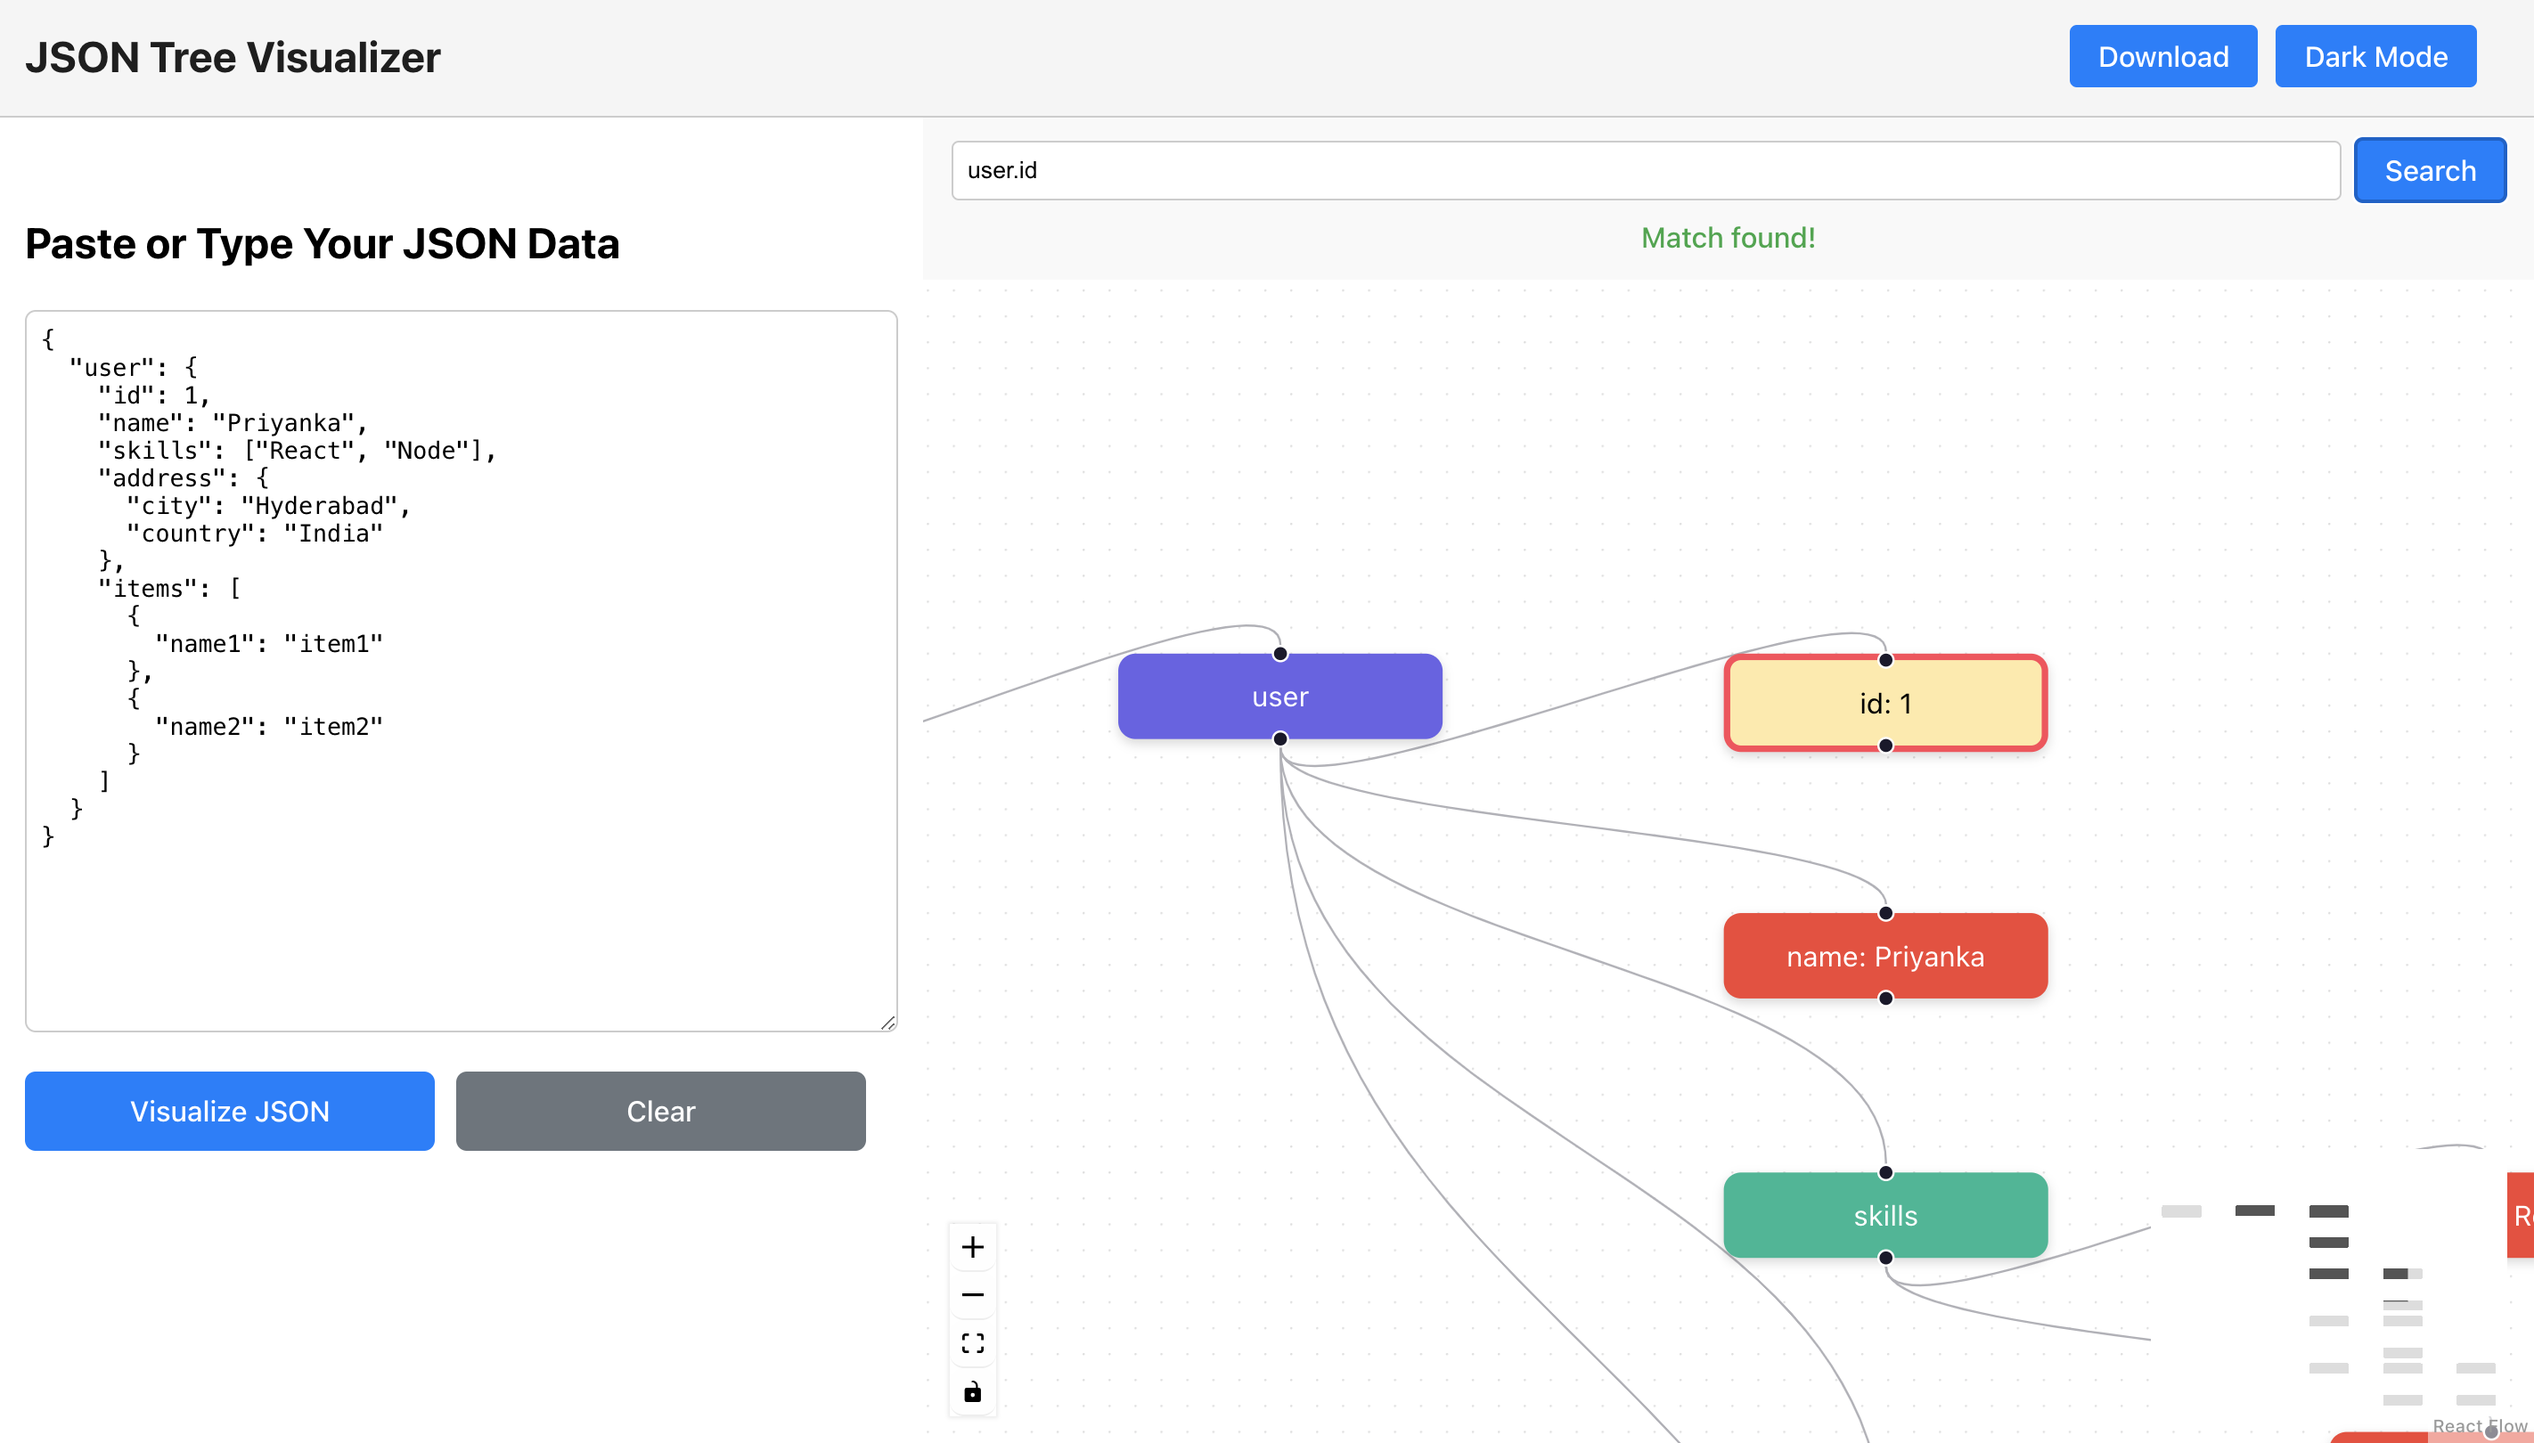
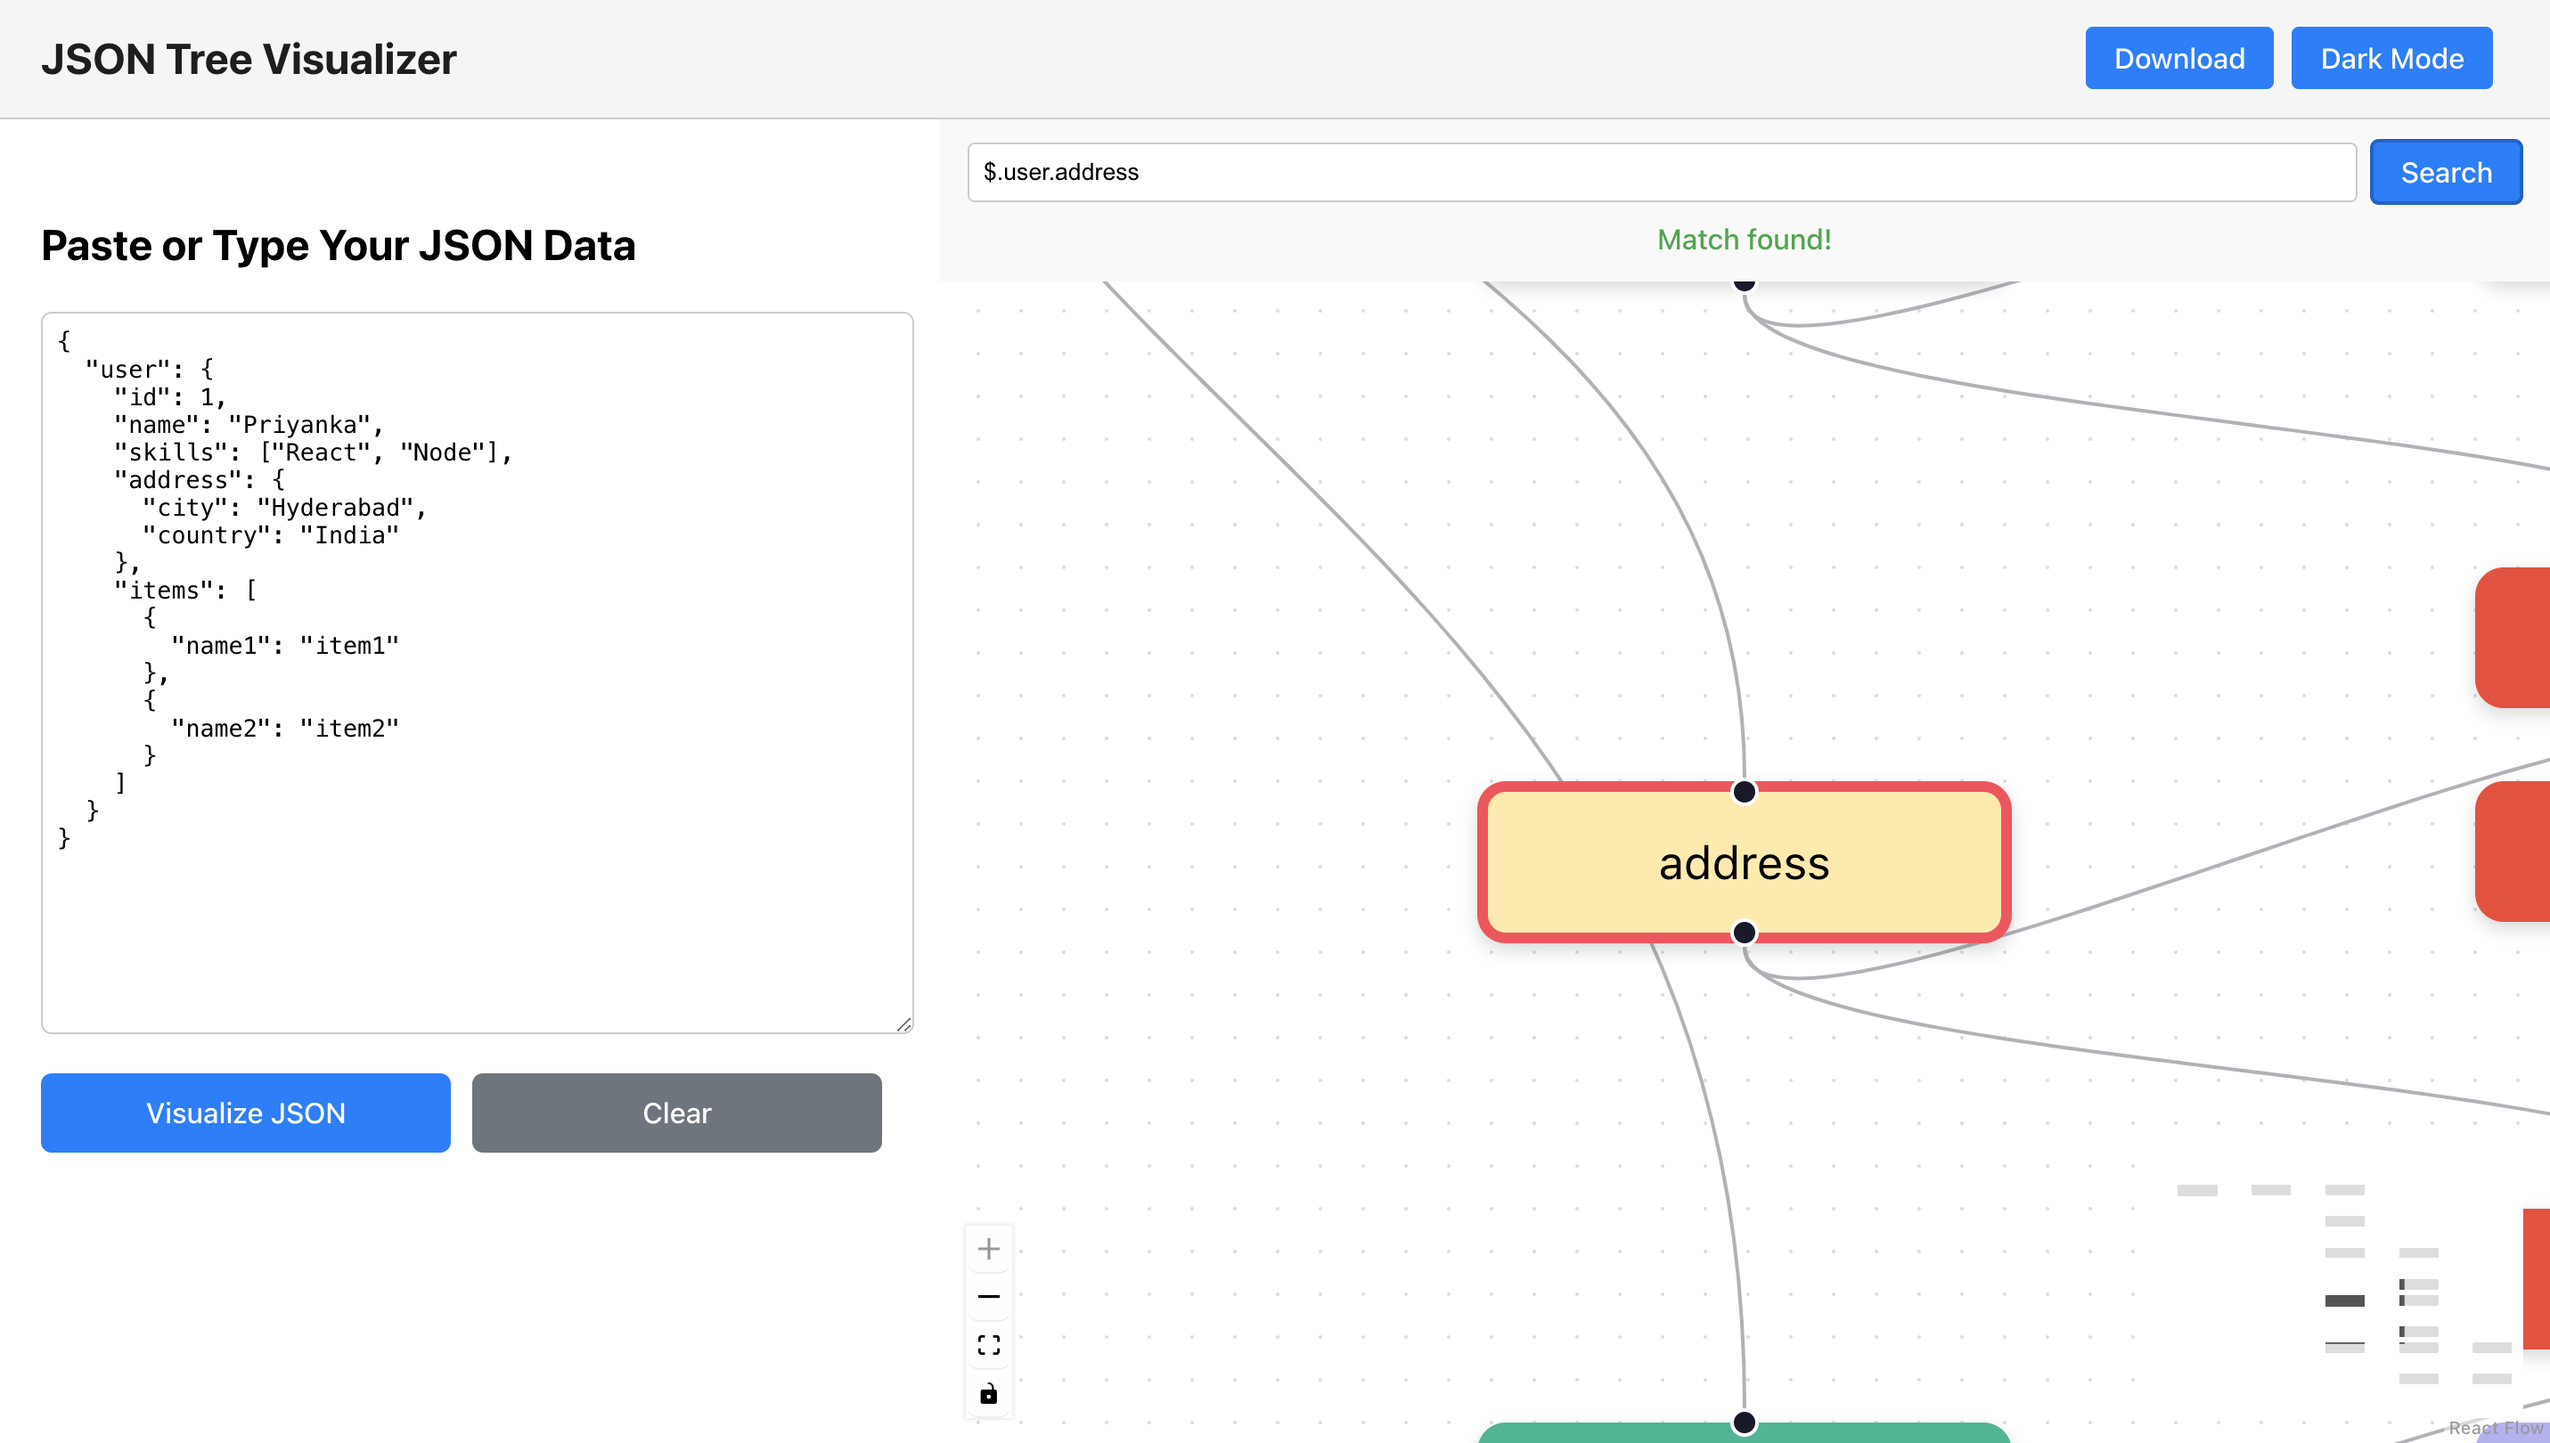
fix(search): enhanced search logic to support JSONPath ($.user.id) with match feedback

diff --git a/src/components/TreeVisualizer.jsx b/src/components/TreeVisualizer.jsx
@@ -116,11 +116,25 @@ function TreeVisualizerInner(
 
     const lowerSearch = searchTerm.toLowerCase();
     const matchedNodeIds = nodesRef.current
-      .filter(
-        (n) =>
-          n.data?.path?.toLowerCase() === lowerSearch ||
-          n.data?.label?.toLowerCase()?.includes(lowerSearch)
-      )
+    .filter((n) => {
+      const nodePath = n.data?.path?.toLowerCase();
+      const nodeLabel = n.data?.label?.toLowerCase();
+  
+      // normalize paths → always treat as "$.<path>"
+      const normalizedNodePath = nodePath.startsWith("$")
+        ? nodePath
+        : "$." + nodePath;
+  
+      // exact match when user starts with "$"
+      const isPathMatch =
+        lowerSearch.startsWith("$") && normalizedNodePath === lowerSearch;
+  
+      // fuzzy label match when user doesn't start with "$"
+      const isLabelMatch =
+        !lowerSearch.startsWith("$") && nodeLabel?.includes(lowerSearch);
+  
+      return isPathMatch || isLabelMatch;
+  })  
       .map((n) => n.id);
 
     const found = matchedNodeIds.length > 0;
